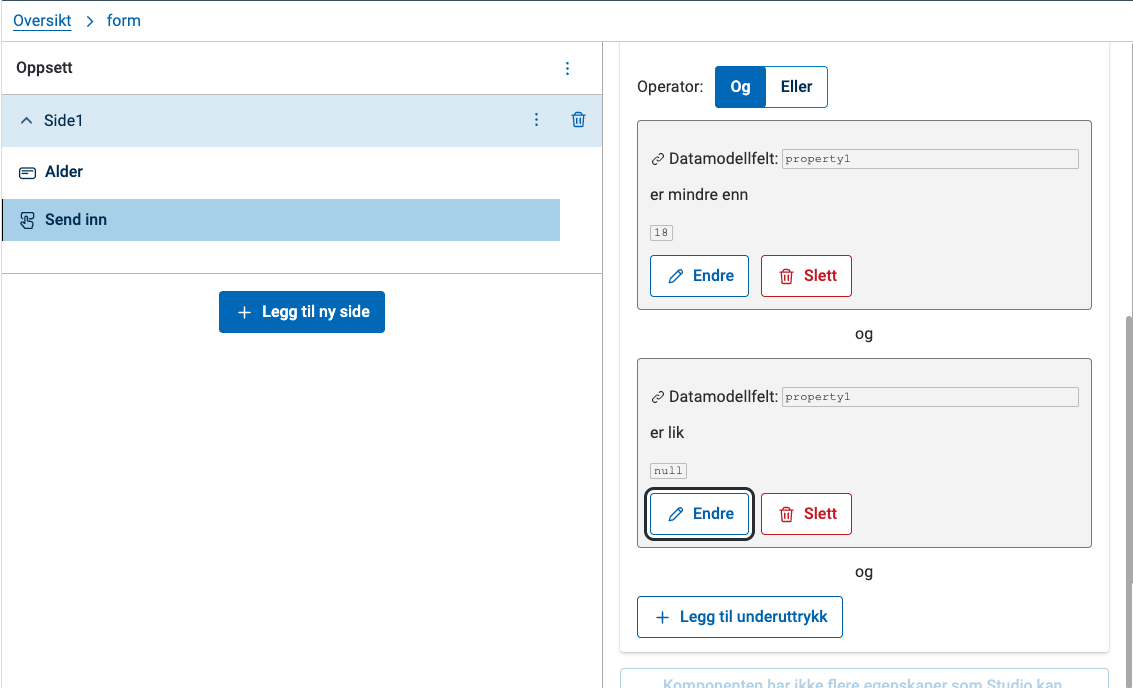
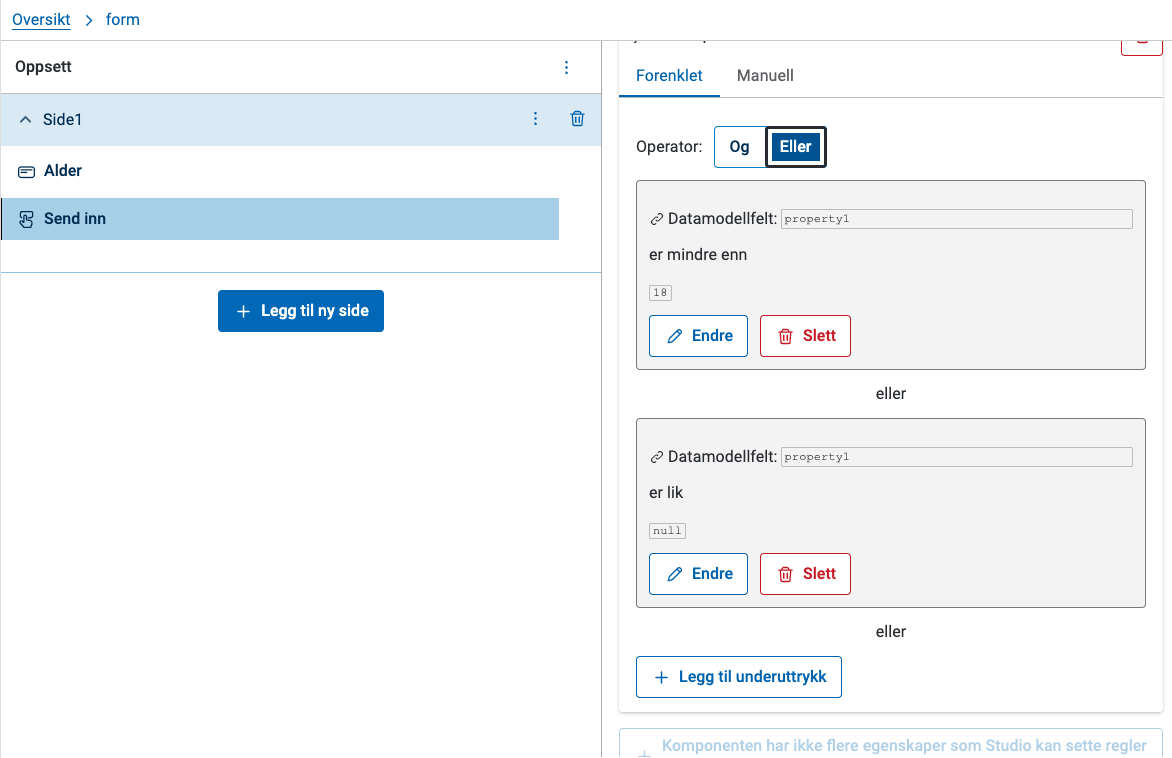
docs(v9): fix the Og/Eller rule, instance context and data model note on the Dynamics page

diff --git a/content/altinn-studio/v9/develop-a-service/look-and-feel/dynamics/_index.nb.md b/content/altinn-studio/v9/develop-a-service/look-and-feel/dynamics/_index.nb.md
@@ -45,7 +45,7 @@ En verdi i et underuttrykk. Den kan være
   - _sann/usann_
   - _komponent_: verdi som er satt i en bestemt skjemakomponent
   - _datamodell_: verdi som er satt i et bestemt datamodellfelt
-  - _kontekst for eksemplaret_: verdi som er hentet fra et bestemt felt fra metadata om tjenesten
+  - _kontekst for eksemplaret_: informasjon om eksemplaret (instansen), som app-ID, eksemplar-ID eller ID-en til den som eier eksemplaret
   - _ikke satt_: tomt felt, ingen verdi er satt
 
 {{%/expandsmall%}}
@@ -71,13 +71,10 @@ Før du starter, må du
 - være inne på siden **Utforming** for appen
 - ha åpnet en side i skjemaet og valgt komponenten du vil sette opp dynamikk for
 - ha åpnet **Valg for dynamikk** i panelet til høyre
-- ha koblet en datamodell til oppgaven
-
-Hvis kortet for oppgaven under **Oversikt** viser «Datamodell:» uten navn, er listen over datamodellfelt tom.
 
 ![Valg for dynamikk for knappen Send inn, med knappen Lag en ny logikkregel](./starting-point.png "Utgangspunktet for fremgangsmåten")
 
-Eksempelet nedenfor bruker dette skjemaet:
+Eksempelet nedenfor bruker dette skjemaet. Det bruker feltet **Alder** fra datamodellen, så oppgaven må ha en datamodell. Hvis kortet for oppgaven under **Oversikt** viser «Datamodell:» uten navn, er listen over datamodellfelt tom.
 
 ![Eksempelskjema for oppsett av dynamikk](./example-form.png "Eksempelskjema for oppsett av dynamikk")
 
@@ -113,12 +110,12 @@ Eksempelet nedenfor bruker dette skjemaet:
 
 6. Sett opp et underuttrykk som sjekker om **Alder** er tomt:
    - Klikk på **Legg til underuttrykk**.
-   - Sjekk at **Operator** øverst i regelen står på **Og** (da må begge være oppfylt).
+   - Sjekk at **Operator** øverst i regelen står på **Eller** (da må minst ett være oppfylt).
    - Gjenta stegene i punkt 4, men med disse endringene:
      - I **Operator**: Velg **er lik** i stedet for **er mindre enn**.
      - **Nederst**: Velg **Ikke satt** i **Type**. Ikke sett opp noe mer.
 
-   ![To underuttrykk koblet sammen med Og: property1 er mindre enn 18, og property1 er lik null](./second-sub-expression.png "Gjenta oppsettet for det andre underuttrykket")
+   ![To underuttrykk koblet sammen med Eller: property1 er mindre enn 18, eller property1 er lik null](./second-sub-expression.png "Gjenta oppsettet for det andre underuttrykket")
 
 7. Test dynamikken i forhåndsvisningen:
    - Knappen **Send inn** er skjult når feltet **Alder** er tomt.
